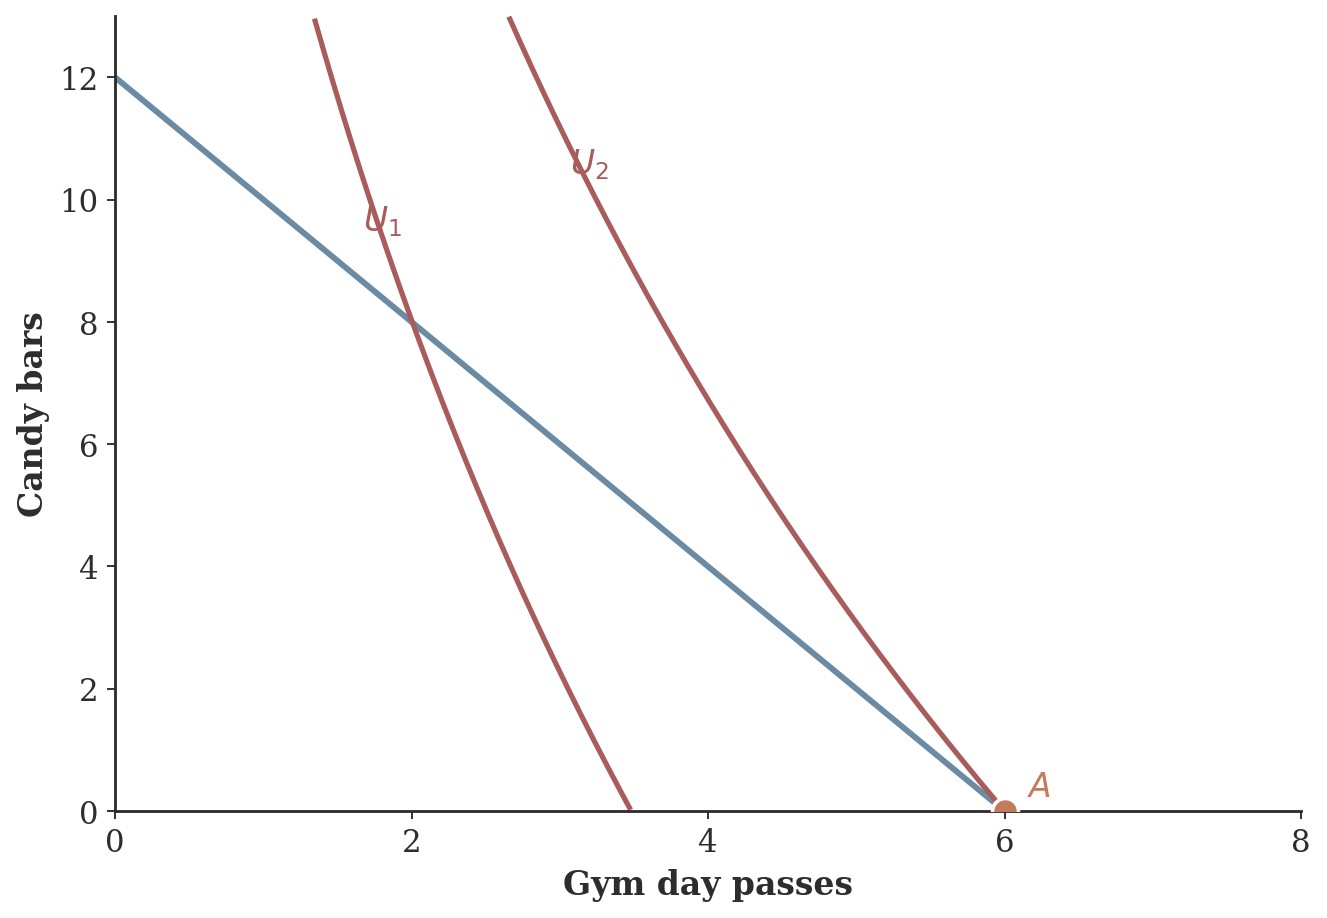
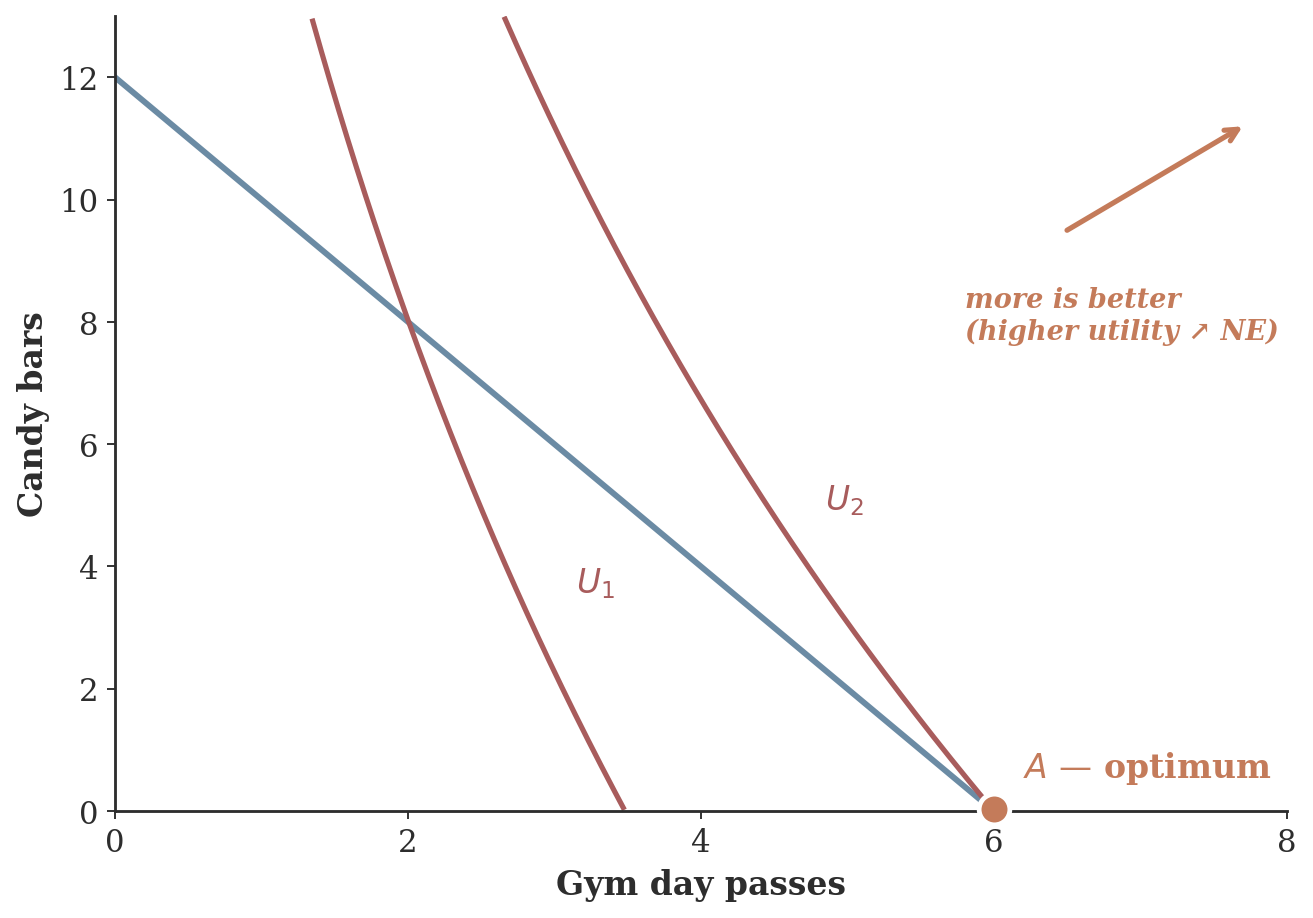
ch05: fix Casey corner figure + add Ally slide (Y-axis corner)
Slide 36 (Casey) fixes:
- Optimum dot at (6, 0) was half-clipped by the x-axis spine. Raised
  to y=0.04 with higher zorder + clip_on=False so it sits cleanly
  above the axis line.
- U_1 and U_2 labels moved to non-overlapping spots in the open
  middle area of the chart (away from BC line and other curves).
- Added a "more is better (higher utility ↗ NE)" arrow in the
  upper-right empty area to indicate the direction of preference.
- Text update: 'Income $36/week' → 'Budget $36/week' + 'NE = higher
  utility' note in the setup callout.

NEW slide 37 (Ally — corner solutions, Y-axis):
- Companion to Casey, opposite corner. Ally is gluten-free, $24/week
  on regular bagels ($2) vs gluten-free ($4). Max 12 regular or 6 GF.
- New figure (figure_ally_corner.png): BC from (0, 6) to (12, 0),
  two flat ICs (U_1 lower, U_2 max), optimum at A=(0, 6) — all GF,
  no regular. NE arrow in the empty lower-right corner.
- Utility U = 0.2·R + 12·sqrt(GF+0.5) — linear in regular (tiny
  weight), log-concave in GF. MRS = MU_R/MU_G < p_R/p_G = 1/2
  everywhere → corner on Y-axis.
- Same 3-box right panel structure as Casey: setup / optimum on
  Y-axis / no tangency (other direction). Two fragment reveals.

Together the two slides show that corner solutions can land on
either axis depending on which good the consumer values relative to
its price.

diff --git a/econ2316/ch05-constrained-choice/index.html b/econ2316/ch05-constrained-choice/index.html
@@ -1465,9 +1465,9 @@
     <!-- RIGHT: text annotations -->
     <div>
       <div style="background: #f8f6f3; padding: 10px 14px; border-radius: 10px; border-left: 4px solid var(--secondary-color); margin-bottom: 8px;">
-        <p style="font-size: 11.5pt; color: var(--secondary-color); font-weight: 700; text-transform: uppercase; letter-spacing: 0.5px; margin: 0 0 4px;">Casey's fitness budget</p>
+        <p style="font-size: 11.5pt; color: var(--secondary-color); font-weight: 700; text-transform: uppercase; letter-spacing: 0.5px; margin: 0 0 4px;">Casey's setup</p>
         <p style="font-size: 11.5pt; line-height: 1.45; margin: 0;">
-          Casey trains for the Boston Marathon. Income \$36/week. Gym day passes \$6, candy bars \$3.<br>Max affordable: 6 gym passes <em>or</em> 12 candy bars.
+          Casey trains for the Boston Marathon. Budget \$36/week. Gym day passes \$6, candy bars \$3.<br>Max affordable: 6 gym passes <em>or</em> 12 candy bars. &nbsp;<em>NE = higher utility.</em>
         </p>
       </div>
 
@@ -1486,7 +1486,48 @@
     </div>
   </div>
 
-  <aside class="notes">Corner-solution slide using Casey (fresh character — fitness-focused Boston Marathon trainee). Budget $36/week, gym day passes $6, candy bars $3. Max 6 gym passes or 12 candy bars. Utility U = 20·ln(G+1) + C — log-concave in gym (LDMU baked in), linear in candy with a tiny weight. Optimum at A=(6, 0): all gym, no candy. Why? Casey's MRS_GC = MU_G/MU_C = 20/(G+1) > 2 = p_G/p_C everywhere on the budget set, so the marginal gym pass is always worth more than the candy bars it would cost. Bundle (2, 8) is feasible (= $12 + $24) but sits on lower IC U_1. The IC is STEEPER than the BC at every point — so the tangency rule (MRS = price ratio) NEVER holds. The general framework that handles both interior AND corner solutions is the KKT conditions, which we'll introduce in Part 3 with the Lagrangian. Other relatable corner-solution examples: a vegan buys zero meat, a non-drinker buys zero alcohol, someone with a peanut allergy buys zero peanut butter, an iPad-only student buys zero paper notebooks. Different preferences = different MRS = potentially different corner. The "no tangency" framing is the bridge to the next slide block where the Lagrangian sets up KKT.</aside>
+  <aside class="notes">Corner-solution slide using Casey (fresh character — fitness-focused Boston Marathon trainee). Budget $36/week, gym day passes $6, candy bars $3. Max 6 gym passes or 12 candy bars. Utility U = 20·ln(G+1) + C — log-concave in gym (LDMU baked in), linear in candy with a tiny weight. Optimum at A=(6, 0): all gym, no candy. Why? Casey's MRS_GC = MU_G/MU_C = 20/(G+1) > 2 = p_G/p_C everywhere on the budget set, so the marginal gym pass is always worth more than the candy bars it would cost. Bundle (2, 8) is feasible (= $12 + $24) but sits on lower IC U_1. The IC is STEEPER than the BC at every point — so the tangency rule (MRS = price ratio) NEVER holds. The NE arrow shows "more is better" — higher utility is in the upper-right direction; A is the FAR-NE bundle Casey can reach on the budget. The general framework that handles both interior AND corner solutions is the KKT conditions, which we'll introduce in Part 3 with the Lagrangian. Other relatable corner-solution examples: a vegan buys zero meat, a non-drinker buys zero alcohol, someone with a peanut allergy buys zero peanut butter, an iPad-only student buys zero paper notebooks. The next slide (Ally) shows the OTHER kind of corner — on the Y-axis.</aside>
+</section>
+
+<!-- ===== Slide 37 — Corner Solutions: Y-axis corner (Ally's gluten-free choice) ===== -->
+<section id="corner-solutions-ally">
+  <h2><i class="fa-solid fa-arrow-up-from-bracket" style="color: var(--accent-color);"></i> Corner solution &mdash; the other side</h2>
+
+  <p style="font-size: 12pt; color: var(--muted-color); margin: 0 0 8px;">
+    Same idea, different corner: this time the optimum is on the <strong>Y-axis</strong>. The consumer spends nothing on the X-axis good.
+  </p>
+
+  <div style="display: grid; grid-template-columns: 1.4fr 1fr; gap: 16px; align-items: center;">
+    <!-- LEFT: figure -->
+    <div class="figure">
+      <img src="figures/figure_ally_corner.png" alt="Ally's budget line and two indifference curves; corner solution at A=(0, 6)" style="width: 100%;">
+    </div>
+
+    <!-- RIGHT: text annotations -->
+    <div>
+      <div style="background: #f8f6f3; padding: 10px 14px; border-radius: 10px; border-left: 4px solid var(--secondary-color); margin-bottom: 8px;">
+        <p style="font-size: 11.5pt; color: var(--secondary-color); font-weight: 700; text-transform: uppercase; letter-spacing: 0.5px; margin: 0 0 4px;">Ally's setup</p>
+        <p style="font-size: 11.5pt; line-height: 1.45; margin: 0;">
+          Ally is gluten-free. Budget \$24/week. Regular bagels \$2 each, gluten-free bagels \$4 each.<br>Max affordable: 12 regular <em>or</em> 6 gluten-free. &nbsp;<em>NE = higher utility.</em>
+        </p>
+      </div>
+
+      <div class="fragment fade-up" style="background: #fef9f3; padding: 10px 14px; border-radius: 10px; border-left: 4px solid var(--accent-color); margin-bottom: 8px;">
+        <p style="font-size: 11.5pt; color: var(--accent-color); font-weight: 700; text-transform: uppercase; letter-spacing: 0.5px; margin: 0 0 4px;">The optimum is on the Y-axis</p>
+        <p style="font-size: 11.5pt; line-height: 1.45; margin: 0;">
+          Highest reachable IC \((U_2)\) touches the budget at <strong>\(A = (0,\,6)\)</strong> &mdash; <em>all gluten-free, no regular</em>. \(U_1\) is a lower IC that crosses the budget at suboptimal bundles like \((4,\,4)\).
+        </p>
+      </div>
+
+      <div class="fragment fade-up" style="background: #fef2f2; padding: 8px 14px; border-radius: 10px; border-left: 4px solid #8a3a3a;">
+        <p style="font-size: 11.5pt; line-height: 1.45; margin: 0;">
+          <strong style="color: #8a3a3a; text-transform: uppercase; letter-spacing: 0.5px;">No tangency (other direction):</strong> &nbsp;Now IC is <em>flatter</em> than BC. MRS \(= MU_R/MU_G < p_R/p_G = 1/2\). Even the first regular bagel isn't worth the gluten-free ones given up. &rarr; corner on the <strong>Y-axis</strong>.
+        </p>
+      </div>
+    </div>
+  </div>
+
+  <aside class="notes">Companion to Casey's slide — same principle (corner solution), opposite corner (Y-axis instead of X-axis). Ally is gluten-free; she has $24/week to spend on bagels. Regular bagels are cheaper ($2) but she can't eat them — they give very little MU. Gluten-free bagels cost $4 but she values them highly. Utility U = 0.2·R + 12·sqrt(GF+0.5) — linear in regular with tiny weight, log-concave in GF. The MRS = MU_R/MU_G = 0.2 / (6/sqrt(GF+0.5)) is much smaller than p_R/p_G = 0.5 everywhere, so the IC is FLATTER than the BC at every point — leading to a Y-axis corner. The optimum is A = (0, 6): all 6 gluten-free bagels, no regular. Pedagogical contrast with Casey: same principle (tangency rule fails), but corner is on Y-axis instead of X-axis. Together the two slides show: corner solutions can land on EITHER axis, depending on which good the consumer values relative to its price. The NE arrow again shows "more is better" — Ally's optimum is the FAR-NE point she can reach on her budget. After this we transition to Part 3 (Lagrangian) which formally handles both interior AND corner solutions via KKT conditions.</aside>
 </section>
 
 <!-- ===== Slide 18 — Part 3 Divider ===== -->

diff --git a/econ2316/ch05-constrained-choice/presentation.html b/econ2316/ch05-constrained-choice/presentation.html
@@ -1465,9 +1465,9 @@
     <!-- RIGHT: text annotations -->
     <div>
       <div style="background: #f8f6f3; padding: 10px 14px; border-radius: 10px; border-left: 4px solid var(--secondary-color); margin-bottom: 8px;">
-        <p style="font-size: 11.5pt; color: var(--secondary-color); font-weight: 700; text-transform: uppercase; letter-spacing: 0.5px; margin: 0 0 4px;">Casey's fitness budget</p>
+        <p style="font-size: 11.5pt; color: var(--secondary-color); font-weight: 700; text-transform: uppercase; letter-spacing: 0.5px; margin: 0 0 4px;">Casey's setup</p>
         <p style="font-size: 11.5pt; line-height: 1.45; margin: 0;">
-          Casey trains for the Boston Marathon. Income \$36/week. Gym day passes \$6, candy bars \$3.<br>Max affordable: 6 gym passes <em>or</em> 12 candy bars.
+          Casey trains for the Boston Marathon. Budget \$36/week. Gym day passes \$6, candy bars \$3.<br>Max affordable: 6 gym passes <em>or</em> 12 candy bars. &nbsp;<em>NE = higher utility.</em>
         </p>
       </div>
 
@@ -1486,7 +1486,48 @@
     </div>
   </div>
 
-  <aside class="notes">Corner-solution slide using Casey (fresh character — fitness-focused Boston Marathon trainee). Budget $36/week, gym day passes $6, candy bars $3. Max 6 gym passes or 12 candy bars. Utility U = 20·ln(G+1) + C — log-concave in gym (LDMU baked in), linear in candy with a tiny weight. Optimum at A=(6, 0): all gym, no candy. Why? Casey's MRS_GC = MU_G/MU_C = 20/(G+1) > 2 = p_G/p_C everywhere on the budget set, so the marginal gym pass is always worth more than the candy bars it would cost. Bundle (2, 8) is feasible (= $12 + $24) but sits on lower IC U_1. The IC is STEEPER than the BC at every point — so the tangency rule (MRS = price ratio) NEVER holds. The general framework that handles both interior AND corner solutions is the KKT conditions, which we'll introduce in Part 3 with the Lagrangian. Other relatable corner-solution examples: a vegan buys zero meat, a non-drinker buys zero alcohol, someone with a peanut allergy buys zero peanut butter, an iPad-only student buys zero paper notebooks. Different preferences = different MRS = potentially different corner. The "no tangency" framing is the bridge to the next slide block where the Lagrangian sets up KKT.</aside>
+  <aside class="notes">Corner-solution slide using Casey (fresh character — fitness-focused Boston Marathon trainee). Budget $36/week, gym day passes $6, candy bars $3. Max 6 gym passes or 12 candy bars. Utility U = 20·ln(G+1) + C — log-concave in gym (LDMU baked in), linear in candy with a tiny weight. Optimum at A=(6, 0): all gym, no candy. Why? Casey's MRS_GC = MU_G/MU_C = 20/(G+1) > 2 = p_G/p_C everywhere on the budget set, so the marginal gym pass is always worth more than the candy bars it would cost. Bundle (2, 8) is feasible (= $12 + $24) but sits on lower IC U_1. The IC is STEEPER than the BC at every point — so the tangency rule (MRS = price ratio) NEVER holds. The NE arrow shows "more is better" — higher utility is in the upper-right direction; A is the FAR-NE bundle Casey can reach on the budget. The general framework that handles both interior AND corner solutions is the KKT conditions, which we'll introduce in Part 3 with the Lagrangian. Other relatable corner-solution examples: a vegan buys zero meat, a non-drinker buys zero alcohol, someone with a peanut allergy buys zero peanut butter, an iPad-only student buys zero paper notebooks. The next slide (Ally) shows the OTHER kind of corner — on the Y-axis.</aside>
+</section>
+
+<!-- ===== Slide 37 — Corner Solutions: Y-axis corner (Ally's gluten-free choice) ===== -->
+<section id="corner-solutions-ally">
+  <h2><i class="fa-solid fa-arrow-up-from-bracket" style="color: var(--accent-color);"></i> Corner solution &mdash; the other side</h2>
+
+  <p style="font-size: 12pt; color: var(--muted-color); margin: 0 0 8px;">
+    Same idea, different corner: this time the optimum is on the <strong>Y-axis</strong>. The consumer spends nothing on the X-axis good.
+  </p>
+
+  <div style="display: grid; grid-template-columns: 1.4fr 1fr; gap: 16px; align-items: center;">
+    <!-- LEFT: figure -->
+    <div class="figure">
+      <img src="figures/figure_ally_corner.png" alt="Ally's budget line and two indifference curves; corner solution at A=(0, 6)" style="width: 100%;">
+    </div>
+
+    <!-- RIGHT: text annotations -->
+    <div>
+      <div style="background: #f8f6f3; padding: 10px 14px; border-radius: 10px; border-left: 4px solid var(--secondary-color); margin-bottom: 8px;">
+        <p style="font-size: 11.5pt; color: var(--secondary-color); font-weight: 700; text-transform: uppercase; letter-spacing: 0.5px; margin: 0 0 4px;">Ally's setup</p>
+        <p style="font-size: 11.5pt; line-height: 1.45; margin: 0;">
+          Ally is gluten-free. Budget \$24/week. Regular bagels \$2 each, gluten-free bagels \$4 each.<br>Max affordable: 12 regular <em>or</em> 6 gluten-free. &nbsp;<em>NE = higher utility.</em>
+        </p>
+      </div>
+
+      <div class="fragment fade-up" style="background: #fef9f3; padding: 10px 14px; border-radius: 10px; border-left: 4px solid var(--accent-color); margin-bottom: 8px;">
+        <p style="font-size: 11.5pt; color: var(--accent-color); font-weight: 700; text-transform: uppercase; letter-spacing: 0.5px; margin: 0 0 4px;">The optimum is on the Y-axis</p>
+        <p style="font-size: 11.5pt; line-height: 1.45; margin: 0;">
+          Highest reachable IC \((U_2)\) touches the budget at <strong>\(A = (0,\,6)\)</strong> &mdash; <em>all gluten-free, no regular</em>. \(U_1\) is a lower IC that crosses the budget at suboptimal bundles like \((4,\,4)\).
+        </p>
+      </div>
+
+      <div class="fragment fade-up" style="background: #fef2f2; padding: 8px 14px; border-radius: 10px; border-left: 4px solid #8a3a3a;">
+        <p style="font-size: 11.5pt; line-height: 1.45; margin: 0;">
+          <strong style="color: #8a3a3a; text-transform: uppercase; letter-spacing: 0.5px;">No tangency (other direction):</strong> &nbsp;Now IC is <em>flatter</em> than BC. MRS \(= MU_R/MU_G < p_R/p_G = 1/2\). Even the first regular bagel isn't worth the gluten-free ones given up. &rarr; corner on the <strong>Y-axis</strong>.
+        </p>
+      </div>
+    </div>
+  </div>
+
+  <aside class="notes">Companion to Casey's slide — same principle (corner solution), opposite corner (Y-axis instead of X-axis). Ally is gluten-free; she has $24/week to spend on bagels. Regular bagels are cheaper ($2) but she can't eat them — they give very little MU. Gluten-free bagels cost $4 but she values them highly. Utility U = 0.2·R + 12·sqrt(GF+0.5) — linear in regular with tiny weight, log-concave in GF. The MRS = MU_R/MU_G = 0.2 / (6/sqrt(GF+0.5)) is much smaller than p_R/p_G = 0.5 everywhere, so the IC is FLATTER than the BC at every point — leading to a Y-axis corner. The optimum is A = (0, 6): all 6 gluten-free bagels, no regular. Pedagogical contrast with Casey: same principle (tangency rule fails), but corner is on Y-axis instead of X-axis. Together the two slides show: corner solutions can land on EITHER axis, depending on which good the consumer values relative to its price. The NE arrow again shows "more is better" — Ally's optimum is the FAR-NE point she can reach on her budget. After this we transition to Part 3 (Lagrangian) which formally handles both interior AND corner solutions via KKT conditions.</aside>
 </section>
 
 <!-- ===== Slide 18 — Part 3 Divider ===== -->
